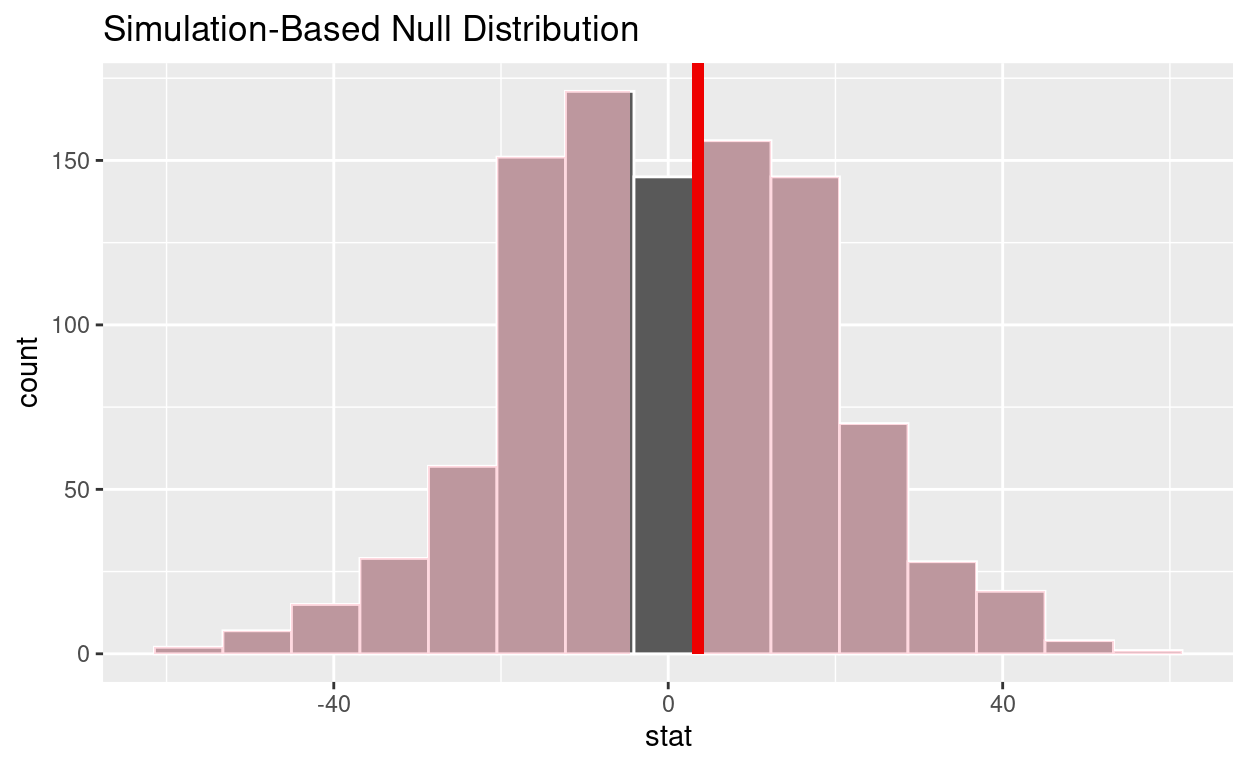
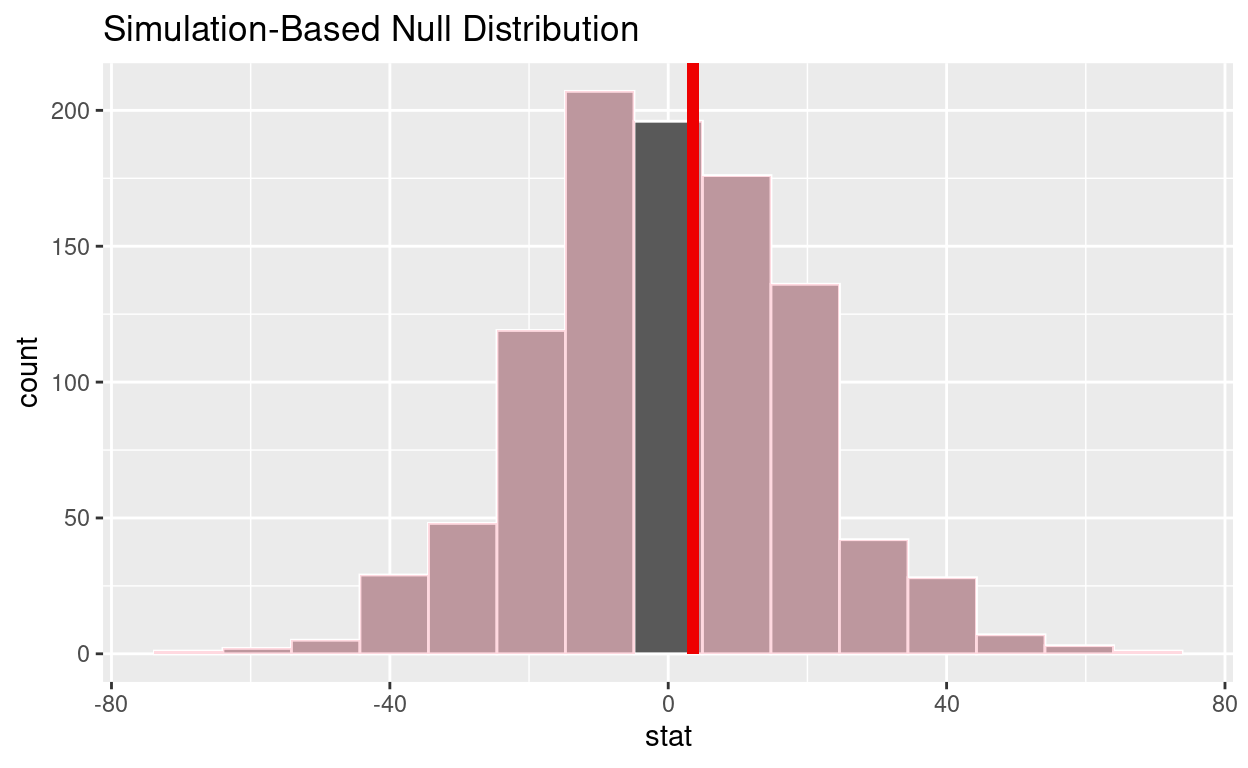
reworded text

diff --git a/docs/posts/2021-09-12-trying-out-infer/index.html b/docs/posts/2021-09-12-trying-out-infer/index.html
@@ -91,6 +91,7 @@ code span.wa { color: #5e5e5e; font-style: italic; } /* Warning */
 <meta property="description" itemprop="description" content="This is ought to be a short blog post, firstly to get to grips with Distill, secondly to try out infer."/>
 
 <link rel="canonical" href="https://theced7.github.io/blog/posts/2021-09-12-trying-out-infer/"/>
+<link rel="license" href="https://creativecommons.org/licenses/by-sa/4.0/"/>
 
 <!--  https://schema.org/Article -->
 <meta property="article:published" itemprop="datePublished" content="2021-09-12"/>
@@ -120,6 +121,7 @@ code span.wa { color: #5e5e5e; font-style: italic; } /* Warning */
 <!--  https://scholar.google.com/intl/en/scholar/inclusion.html#indexing -->
 <meta name="citation_title" content="Mein Blog: Trying out infer"/>
 <meta name="citation_fulltext_html_url" content="https://theced7.github.io/blog/posts/2021-09-12-trying-out-infer/"/>
+<meta name="citation_fulltext_world_readable" content=""/>
 <meta name="citation_online_date" content="2021/09/12"/>
 <meta name="citation_publication_date" content="2021/09/12"/>
 <meta name="citation_author" content="theCed7"/>
@@ -127,7 +129,7 @@ code span.wa { color: #5e5e5e; font-style: italic; } /* Warning */
   <!--radix_placeholder_rmarkdown_metadata-->
 
 <script type="text/json" id="radix-rmarkdown-metadata">
-{"type":"list","attributes":{"names":{"type":"character","attributes":{},"value":["title","description","author","date","output","citation_url","canonical_url"]}},"value":[{"type":"character","attributes":{},"value":["Trying out infer"]},{"type":"character","attributes":{},"value":["This is ought to be a short blog post, firstly to get to grips with Distill, secondly to try out infer."]},{"type":"list","attributes":{},"value":[{"type":"list","attributes":{"names":{"type":"character","attributes":{},"value":["name","url"]}},"value":[{"type":"character","attributes":{},"value":["theCed7"]},{"type":"character","attributes":{},"value":["https://github.com/theced7"]}]}]},{"type":"character","attributes":{},"value":["09-12-2021"]},{"type":"list","attributes":{"names":{"type":"character","attributes":{},"value":["distill::distill_article"]}},"value":[{"type":"list","attributes":{"names":{"type":"character","attributes":{},"value":["self_contained","toc"]}},"value":[{"type":"logical","attributes":{},"value":[false]},{"type":"logical","attributes":{},"value":[true]}]}]},{"type":"character","attributes":{},"value":["https://theced7.github.io/blog/posts/2021-09-12-trying-out-infer/"]},{"type":"character","attributes":{},"value":["https://theced7.github.io/blog/posts/2021-09-12-trying-out-infer/"]}]}
+{"type":"list","attributes":{"names":{"type":"character","attributes":{},"value":["creative_commons","title","description","author","date","output","citation_url","canonical_url"]}},"value":[{"type":"character","attributes":{},"value":["CC BY-SA"]},{"type":"character","attributes":{},"value":["Trying out infer"]},{"type":"character","attributes":{},"value":["This is ought to be a short blog post, firstly to get to grips with Distill, secondly to try out infer."]},{"type":"list","attributes":{},"value":[{"type":"list","attributes":{"names":{"type":"character","attributes":{},"value":["name","url"]}},"value":[{"type":"character","attributes":{},"value":["theCed7"]},{"type":"character","attributes":{},"value":["https://github.com/theced7"]}]}]},{"type":"character","attributes":{},"value":["09-12-2021"]},{"type":"list","attributes":{"names":{"type":"character","attributes":{},"value":["distill::distill_article"]}},"value":[{"type":"list","attributes":{"names":{"type":"character","attributes":{},"value":["self_contained","toc"]}},"value":[{"type":"logical","attributes":{},"value":[false]},{"type":"logical","attributes":{},"value":[true]}]}]},{"type":"character","attributes":{},"value":["https://theced7.github.io/blog/posts/2021-09-12-trying-out-infer/"]},{"type":"character","attributes":{},"value":["https://theced7.github.io/blog/posts/2021-09-12-trying-out-infer/"]}]}
 </script>
 <!--/radix_placeholder_rmarkdown_metadata-->
   
@@ -2312,14 +2314,14 @@ Null Hypothesis: independence
    &lt;fct&gt;                    &lt;dbl&gt;     &lt;int&gt;
  1 USA                       848.         1
  2 GBR                       809.         1
- 3 USA                       864.         1
+ 3 GBR                       864.         1
  4 USA                       896.         1
- 5 GBR                       917.         1
- 6 GBR                       774.         1
+ 5 USA                       917.         1
+ 6 USA                       774.         1
  7 GBR                      1000.         1
- 8 GBR                       881.         1
+ 8 USA                       881.         1
  9 USA                       807.         1
-10 USA                       678.         1
+10 GBR                       678.         1
 # … with 503,990 more rows</code></pre>
 </div>
 <h2 id="calculate-calculating-summary-statistics"><code>calculate</code>: calculating summary statistics</h2>
@@ -2401,16 +2403,16 @@ Null Hypothesis: independence
 # Groups:   replicate [1,000]
    new_cases_per_million iso_code replicate
                    &lt;dbl&gt; &lt;fct&gt;        &lt;int&gt;
- 1                  60.3 GBR              1
- 2                 485.  GBR              1
- 3                 129.  GBR              1
- 4                 477.  GBR              1
- 5                 529.  GBR              1
- 6                 678.  GBR              1
- 7                 550.  GBR              1
- 8                 522.  GBR              1
- 9                  79.3 GBR              1
-10                 422.  GBR              1
+ 1                  16.2 GBR              1
+ 2                  11.1 GBR              1
+ 3                 595.  GBR              1
+ 4                 848.  GBR              1
+ 5                 404.  GBR              1
+ 6                  77.4 GBR              1
+ 7                  79.4 GBR              1
+ 8                 716.  GBR              1
+ 9                 513.  GBR              1
+10                 232.  GBR              1
 # … with 503,990 more rows</code></pre>
 <div class="sourceCode">
 <pre class="sourceCode r"><code class="sourceCode r"><span class='va'>null_dist_sample</span> <span class='op'>&lt;-</span> <span class='va'>null_dist_sample</span> <span class='op'>%&gt;%</span> 
@@ -2423,18 +2425,18 @@ Null Hypothesis: independence
 Explanatory: iso_code (factor)
 Null Hypothesis: independence
 # A tibble: 1,000 × 2
-   replicate      stat
-       &lt;int&gt;     &lt;dbl&gt;
- 1         1 -16.0    
- 2         2  -5.78   
- 3         3 -12.6    
- 4         4   3.32   
- 5         5  -7.91   
- 6         6  15.6    
- 7         7 -12.5    
- 8         8  -3.04   
- 9         9  17.0    
-10        10  -0.00800
+   replicate   stat
+       &lt;int&gt;  &lt;dbl&gt;
+ 1         1 -5.23 
+ 2         2  6.88 
+ 3         3 16.3  
+ 4         4 11.3  
+ 5         5  6.08 
+ 6         6 37.1  
+ 7         7 -6.19 
+ 8         8 -0.401
+ 9         9 16.1  
+10        10  5.45 
 # … with 990 more rows</code></pre>
 </div>
 <p>Now we can visualize our generated data. Think of it this way: Through some mathematical tricks, infer tried to simulate what our data would look like in a population where the null hypothesis were true.</p>
@@ -2469,7 +2471,7 @@ Explanatory: iso_code (factor)
 <pre><code># A tibble: 1 × 1
   p_value
     &lt;dbl&gt;
-1   0.854</code></pre>
+1   0.828</code></pre>
 <pre><code># A tibble: 1 × 7
   statistic  t_df p_value alternative estimate lower_ci upper_ci
       &lt;dbl&gt; &lt;dbl&gt;   &lt;dbl&gt; &lt;chr&gt;          &lt;dbl&gt;    &lt;dbl&gt;    &lt;dbl&gt;
@@ -2495,8 +2497,8 @@ Explanatory: iso_code (factor)
 <p>We further added a red dot to each box which represents the mean value of <code>new_cases_per_million</code> (notice the difference between mean and median). The means seem to be apart even further.</p>
 <h2 id="infer">Infer</h2>
 <p>Let’s take more in-depth look with infer. Again, we start off by calculating the difference in means which we <strong>observed</strong> in our data.</p>
-<p>Then we let infer <strong>generate</strong> data under the assumption that the reported new cases per million are <em>independent</em> of the country they occurred in (null hypothesis). When using <code>type = permute</code>, infer does this by reassigning the values <code>new_cases_per_million</code> <em>by chance</em> to either one of the countries. For each <code>rep</code>, our entire data get’s shuffled once. Thus, a possible link between both variables get’s broken.</p>
-<p>Subsequently, we also calculate the difference in means in the generated data. Because we assumed the null hypothesis to be true, this calculation should result in a normal distribution around 0.</p>
+<p>Then we let infer <strong>generate</strong> data under the assumption that the reported new cases per million are <em>independent</em> of the country they occurred in (null hypothesis). When using <code>type = permute</code>, infer does this by reassigning the values of <code>new_cases_per_million</code> <em>by chance</em> to either one of the countries. For each <code>rep</code>, our entire data get’s shuffled once. Thus, a possible link between both variables get’s broken.</p>
+<p>Subsequently, we also calculate the difference in means for each of our reps. Because we assumed the null hypothesis to be true, this calculation should result in a normal distribution around 0.</p>
 <div class="layout-chunk" data-layout="l-body">
 <div class="sourceCode">
 <pre class="sourceCode r"><code class="sourceCode r"><span class='co'># Calculate difference in means in observed data</span>
@@ -2587,6 +2589,10 @@ Explanatory: iso_code (factor)
 <!--/radix_placeholder_site_after_body-->
 <!--radix_placeholder_appendices-->
 <div class="appendix-bottom">
+  <h3 id="updates-and-corrections">Corrections</h3>
+  <p>If you see mistakes or want to suggest changes, please <a href="https://github.com/theced7/blog/issues/new">create an issue</a> on the source repository.</p>
+  <h3 id="reuse">Reuse</h3>
+  <p>Text and figures are licensed under Creative Commons Attribution <a rel="license" href="https://creativecommons.org/licenses/by-sa/4.0/">CC BY-SA 4.0</a>. Source code is available at <a href="https://github.com/theced7/blog">https://github.com/theced7/blog</a>, unless otherwise noted. The figures that have been reused from other sources don't fall under this license and can be recognized by a note in their caption: "Figure from ...".</p>
   <h3 id="citation">Citation</h3>
   <p>For attribution, please cite this work as</p>
   <pre class="citation-appendix short">theCed7 (2021, Sept. 12). Mein Blog: Trying out infer. Retrieved from https://theced7.github.io/blog/posts/2021-09-12-trying-out-infer/</pre>

diff --git a/_posts/2021-09-12-trying-out-infer/trying-out-infer.html b/_posts/2021-09-12-trying-out-infer/trying-out-infer.html
@@ -1677,14 +1677,14 @@ Null Hypothesis: independence
    &lt;fct&gt;                    &lt;dbl&gt;     &lt;int&gt;
  1 USA                       848.         1
  2 GBR                       809.         1
- 3 USA                       864.         1
+ 3 GBR                       864.         1
  4 USA                       896.         1
- 5 GBR                       917.         1
- 6 GBR                       774.         1
+ 5 USA                       917.         1
+ 6 USA                       774.         1
  7 GBR                      1000.         1
- 8 GBR                       881.         1
+ 8 USA                       881.         1
  9 USA                       807.         1
-10 USA                       678.         1
+10 GBR                       678.         1
 # … with 503,990 more rows</code></pre>
 </div>
 <h2 id="calculate-calculating-summary-statistics"><code>calculate</code>: calculating summary statistics</h2>
@@ -1766,16 +1766,16 @@ Null Hypothesis: independence
 # Groups:   replicate [1,000]
    new_cases_per_million iso_code replicate
                    &lt;dbl&gt; &lt;fct&gt;        &lt;int&gt;
- 1                  60.3 GBR              1
- 2                 485.  GBR              1
- 3                 129.  GBR              1
- 4                 477.  GBR              1
- 5                 529.  GBR              1
- 6                 678.  GBR              1
- 7                 550.  GBR              1
- 8                 522.  GBR              1
- 9                  79.3 GBR              1
-10                 422.  GBR              1
+ 1                  16.2 GBR              1
+ 2                  11.1 GBR              1
+ 3                 595.  GBR              1
+ 4                 848.  GBR              1
+ 5                 404.  GBR              1
+ 6                  77.4 GBR              1
+ 7                  79.4 GBR              1
+ 8                 716.  GBR              1
+ 9                 513.  GBR              1
+10                 232.  GBR              1
 # … with 503,990 more rows</code></pre>
 <div class="sourceCode">
 <pre class="sourceCode r"><code class="sourceCode r"><span class='va'>null_dist_sample</span> <span class='op'>&lt;-</span> <span class='va'>null_dist_sample</span> <span class='op'>%&gt;%</span> 
@@ -1788,18 +1788,18 @@ Null Hypothesis: independence
 Explanatory: iso_code (factor)
 Null Hypothesis: independence
 # A tibble: 1,000 × 2
-   replicate      stat
-       &lt;int&gt;     &lt;dbl&gt;
- 1         1 -16.0    
- 2         2  -5.78   
- 3         3 -12.6    
- 4         4   3.32   
- 5         5  -7.91   
- 6         6  15.6    
- 7         7 -12.5    
- 8         8  -3.04   
- 9         9  17.0    
-10        10  -0.00800
+   replicate   stat
+       &lt;int&gt;  &lt;dbl&gt;
+ 1         1 -5.23 
+ 2         2  6.88 
+ 3         3 16.3  
+ 4         4 11.3  
+ 5         5  6.08 
+ 6         6 37.1  
+ 7         7 -6.19 
+ 8         8 -0.401
+ 9         9 16.1  
+10        10  5.45 
 # … with 990 more rows</code></pre>
 </div>
 <p>Now we can visualize our generated data. Think of it this way: Through some mathematical tricks, infer tried to simulate what our data would look like in a population where the null hypothesis were true.</p>
@@ -1834,7 +1834,7 @@ Explanatory: iso_code (factor)
 <pre><code># A tibble: 1 × 1
   p_value
     &lt;dbl&gt;
-1   0.854</code></pre>
+1   0.828</code></pre>
 <pre><code># A tibble: 1 × 7
   statistic  t_df p_value alternative estimate lower_ci upper_ci
       &lt;dbl&gt; &lt;dbl&gt;   &lt;dbl&gt; &lt;chr&gt;          &lt;dbl&gt;    &lt;dbl&gt;    &lt;dbl&gt;
@@ -1860,8 +1860,8 @@ Explanatory: iso_code (factor)
 <p>We further added a red dot to each box which represents the mean value of <code>new_cases_per_million</code> (notice the difference between mean and median). The means seem to be apart even further.</p>
 <h2 id="infer">Infer</h2>
 <p>Let’s take more in-depth look with infer. Again, we start off by calculating the difference in means which we <strong>observed</strong> in our data.</p>
-<p>Then we let infer <strong>generate</strong> data under the assumption that the reported new cases per million are <em>independent</em> of the country they occurred in (null hypothesis). When using <code>type = permute</code>, infer does this by reassigning the values <code>new_cases_per_million</code> <em>by chance</em> to either one of the countries. For each <code>rep</code>, our entire data get’s shuffled once. Thus, a possible link between both variables get’s broken.</p>
-<p>Subsequently, we also calculate the difference in means in the generated data. Because we assumed the null hypothesis to be true, this calculation should result in a normal distribution around 0.</p>
+<p>Then we let infer <strong>generate</strong> data under the assumption that the reported new cases per million are <em>independent</em> of the country they occurred in (null hypothesis). When using <code>type = permute</code>, infer does this by reassigning the values of <code>new_cases_per_million</code> <em>by chance</em> to either one of the countries. For each <code>rep</code>, our entire data get’s shuffled once. Thus, a possible link between both variables get’s broken.</p>
+<p>Subsequently, we also calculate the difference in means for each of our reps. Because we assumed the null hypothesis to be true, this calculation should result in a normal distribution around 0.</p>
 <div class="layout-chunk" data-layout="l-body">
 <div class="sourceCode">
 <pre class="sourceCode r"><code class="sourceCode r"><span class='co'># Calculate difference in means in observed data</span>
